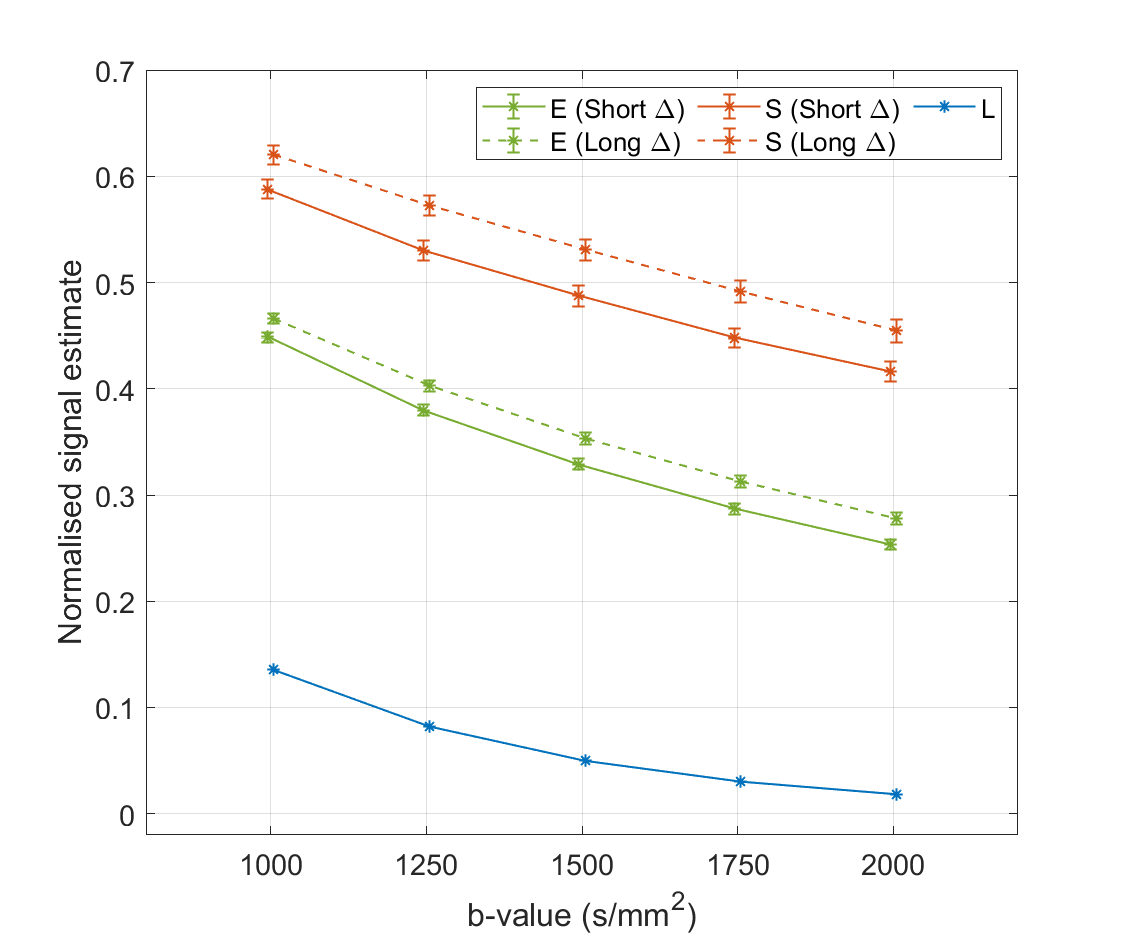
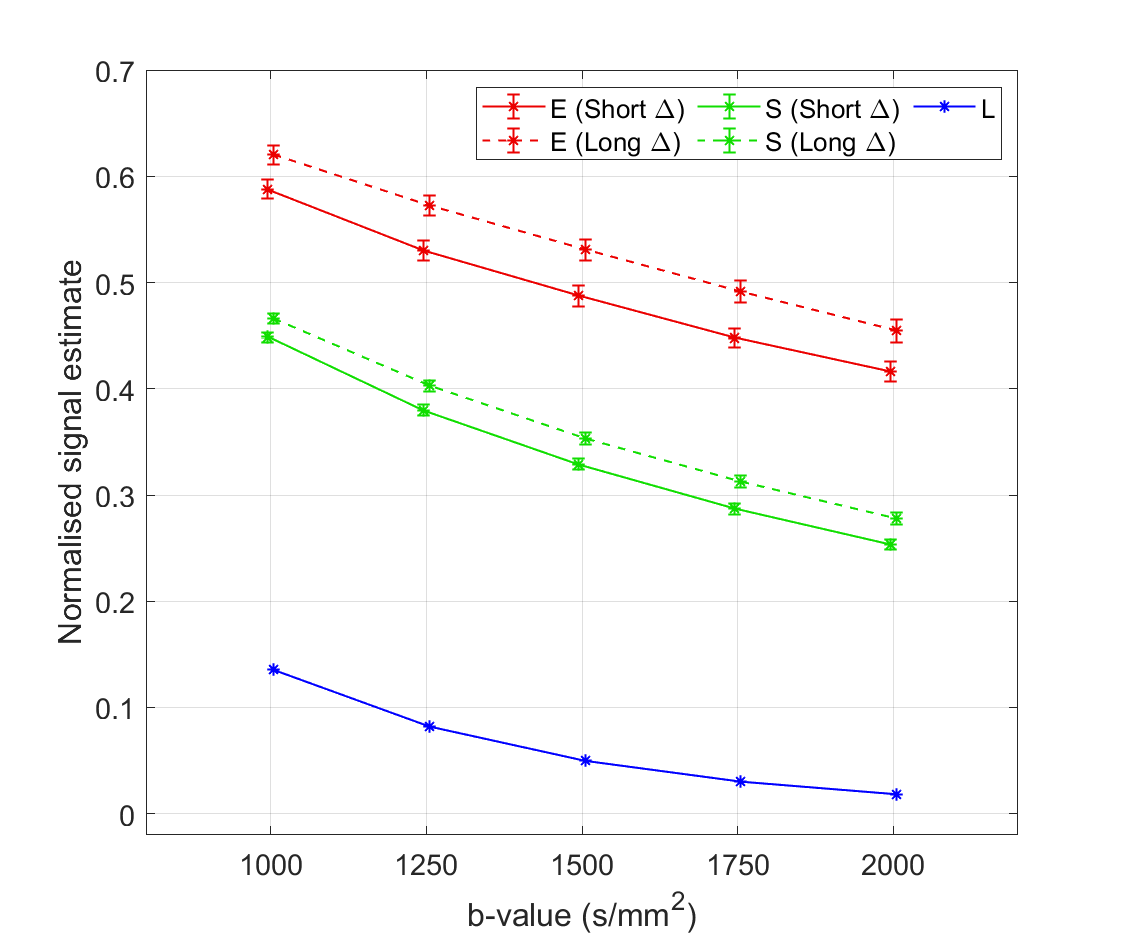
Update.

diff --git a/Code/Figures/make_model_results_table.m b/Code/Figures/make_model_results_table.m
@@ -1,0 +1,88 @@
+% Script to format modelling resilts into table
+
+clear;
+projectfolder = pwd;
+
+% Load model fitting results
+RESULTS = load(fullfile(projectfolder, 'Outputs', 'Model Fitting', 'ESL signal profiles', 'Multi-sample', 'RESULTS.mat')).RESULTS;
+N = length(RESULTS);
+
+% Initialise table
+T = table( ...
+    'Size', ...
+    [N, 4], ...
+    'VariableTypes', {'string', 'string', 'string', 'string'}, ...
+    'VariableNames', {'Component', 'Model Name', 'Estimated Parameters', 'AIC'});
+
+% Fill in table
+for indx = 1:N
+
+    component = RESULTS(indx).Component;
+    modelname = RESULTS(indx).ModelName;
+    params = RESULTS(indx).ModelParams;
+    error = RESULTS(indx).ParamError;
+    AIC = RESULTS(indx).AIC;
+
+    % Component
+    switch component
+        case 'E'
+            T{indx, 'Component'} = {'Epithelium'};
+        case 'S'
+            T{indx, 'Component'} = {'Stroma'};
+    end
+
+
+    % Parameters and errors
+    switch modelname
+        case 'ADC'
+            T{indx, 'Model Name'} = {modelname};
+            
+            T{indx, 'Estimated Parameters'} = {[...
+                'S0 = ' sprintf('%.3f', params(1)) ' (' sprintf('%.4f', error(1)) '); ' ...
+                'D = ' sprintf('%.3f', params(2)) ' (' sprintf('%.4f', error(2)) ') x10^-3 mm^2/s' ...
+            ]};
+
+
+        case 'DKI'
+            T{indx, 'Model Name'} = {modelname};
+
+        T{indx, 'Estimated Parameters'} = {[...
+                'S0 = ' sprintf('%.3f', params(1)) ' (' sprintf('%.4f', error(1)) '); ' ...
+                'D = ' sprintf('%.3f', params(2)) ' (' sprintf('%.4f', error(2)) ') x10^-3 mm^2/s; ' ...
+                'K = ' sprintf('%.3f', params(3)) ' (' sprintf('%.4f', error(3)) ')' ...
+            ]};
+
+
+        case 'Sphere'
+            T{indx, 'Model Name'} = {'Sphere'};
+            
+            T{indx, 'Estimated Parameters'} = {[...
+                'S0 = ' sprintf('%.3f', params(3)) ' (' sprintf('%.4f', error(3)) '); ' ...
+                'D = ' sprintf('%.3f', params(2)) ' (' sprintf('%.4f', error(2)) ') x10^-3 mm^2/s; ' ...
+                'R = ' sprintf('%.3f', params(1)) ' (' sprintf('%.4f', error(1)) ') µm' ...
+            ]};
+
+
+        case 'Ball+Sphere'
+            T{indx, 'Model Name'} = {'Ball + Sphere'};
+    
+            T{indx, 'Estimated Parameters'} = {[...
+                'S0 = ' sprintf('%.3f', params(5)) ' (' sprintf('%.4f', error(5)) '); ' ...
+                'f_sphere = ' sprintf('%.3f', params(1)) ' (' sprintf('%.4f', error(1)) '); ' ...
+                'D_sphere = ' sprintf('%.3f', params(3)) ' (' sprintf('%.4f', error(3)) ') x10^-3 mm^2/s; ' ...
+                'R = ' sprintf('%.3f', params(2)) ' (' sprintf('%.4f', error(2)) ') µm; ' ...
+                'D_ball = ' sprintf('%.3f', params(4)) ' (' sprintf('%.4f', error(4)) ') x10^-3 mm^2/s' ...
+            ]};
+
+    end
+
+    % AIC
+    T{indx, 'AIC'} = {sprintf('%.3f', AIC)};
+
+
+end
+
+
+% Save as excel sheet
+writetable(T, fullfile(projectfolder, 'Figures', 'modelling_results.xlsx'));
+

diff --git a/Code/Figures/plot_ESL_signal_estimates.m b/Code/Figures/plot_ESL_signal_estimates.m
@@ -24,18 +24,18 @@ s = signals(:,indices,:);
 bvals = [scheme(indices).bval];
 lw = 1;
 % Display error bars with 95% confidence intervals from botstrapping
-h1=errorbar(bvals-1*bshift, s(2,:,1), s(2,:,1)-s(2,:,3), s(2,:,4)-s(2,:,1), '-*', LineWidth = lw, color=[0.4660 0.6740 0.1880], DisplayName='E (Short \Delta)');
+h1=errorbar(bvals-1*bshift, s(1,:,1), s(1,:,1)-s(1,:,3), s(1,:,4)-s(1,:,1), '-*', LineWidth = lw, color='#EB0000', DisplayName='E (Short \Delta)');
 hold on
-h2=errorbar(bvals-1*bshift, s(1,:,1), s(1,:,1)-s(1,:,3), s(1,:,4)-s(1,:,1), '-*', LineWidth = lw, color=[0.8500 0.3250 0.0980], DisplayName='S (Short \Delta)');
+h2=errorbar(bvals-1*bshift, s(2,:,1), s(2,:,1)-s(2,:,3), s(2,:,4)-s(2,:,1), '-*', LineWidth = lw, color='#10DE00', DisplayName='S (Short \Delta)');
 % errorbar(bvals-1*bshift, s(3,:,1), s(3,:,1)-s(3,:,3), s(3,:,4)-s(3,:,1),'-*', LineWidth = lw, color=[0 0.4470 0.7410], DisplayName = 'L (Short \Delta)');
 
 % Long Delta
 indices = 7:11;
 s = signals(:,indices,:);
-h3=errorbar(bvals+1*bshift, s(2,:,1), s(2,:,1)-s(2,:,3), s(2,:,4)-s(2,:,1),  '--*', LineWidth = lw, color=[0.4660 0.6740 0.1880], DisplayName='E (Long \Delta)');
-h4=errorbar(bvals+1*bshift, s(1,:,1), s(1,:,1)-s(1,:,3), s(1,:,4)-s(1,:,1), '--*', LineWidth = lw, color=[0.8500 0.3250 0.0980], DisplayName='S (Long \Delta)');
+h3=errorbar(bvals+1*bshift, s(1,:,1), s(1,:,1)-s(1,:,3), s(1,:,4)-s(1,:,1), '--*', LineWidth = lw, color='#EB0000', DisplayName='E (Long \Delta)');
+h4=errorbar(bvals+1*bshift, s(2,:,1), s(2,:,1)-s(2,:,3), s(2,:,4)-s(2,:,1),  '--*', LineWidth = lw, color='#10DE00', DisplayName='S (Long \Delta)');
 
-h5=plot(bvals+1*bshift, s(3,:,1), '-*', LineWidth = lw, color=[0 0.4470 0.7410], DisplayName = 'L');
+h5=plot(bvals+1*bshift, s(3,:,1), '-*', LineWidth = lw, color=[0 0 1], DisplayName = 'L');
 
 xticks(bvals); 
 xticklabels(bvals)

diff --git a/Code/Analysis/model_ESL_signals.m b/Code/Analysis/model_ESL_signals.m
@@ -7,7 +7,7 @@ projectfolder = pwd;
 
 RESULTS = struct();
 
-SaveRESULTS = true;
+SaveRESULTS = false;
 
 %% Sample and scheme details
 
@@ -25,8 +25,8 @@ components = {'E', 'S'};
 
 modelnames = {
   'ADC',...
-  'DKI',...
-  'Sphere',...
+  ...'DKI',...
+  ...'Sphere',...
   'Ball+Sphere'...
     };
 
@@ -34,7 +34,7 @@ modelnames = {
 lambda = 0e-3; % Regularisation
 fittingtechnique = 'LSQ';
 
-DisplayPredictions = false;
+DisplayPredictions = true;
 
 for compindx = 1:length(components)
 
@@ -58,12 +58,13 @@ for compindx = 1:length(components)
 
         f=figure;
         bshift=25;
+        lw = 1;
         switch component
             case 'E'
-                color = [0.8500 0.3250 0.0980];
+                color = '#EB0000';
                 T = 'Epithelium';
             case 'S'
-                color = [0.4660 0.6740 0.1880];
+                color = '#10DE00';
                 T = 'Stroma';
             case 'L'
                 color = [0    0.4470    0.7410];
@@ -79,7 +80,7 @@ for compindx = 1:length(components)
             (s(2:6))-(s_LCI(2:6)), ...
             (s_UCI(2:6))-(s(2:6)), ...
             '-*', ...
-            color=color, MarkerSize=6, ...
+            color=color, MarkerSize=6, LineWidth = lw,...
             DisplayName = 'Estimated (Short \Delta)')
 
         hold on
@@ -92,7 +93,7 @@ for compindx = 1:length(components)
             (s(7:end)),...
             (s(7:end))-(s_LCI(7:end)), ...
             (s_UCI(7:end))-(s(7:end)), ...
-            '--*', color=color, MarkerSize=6, ...
+            '--*', color=color, MarkerSize=6, LineWidth = lw,...
             DisplayName = 'Estimated (Long \Delta)')
         
     end
